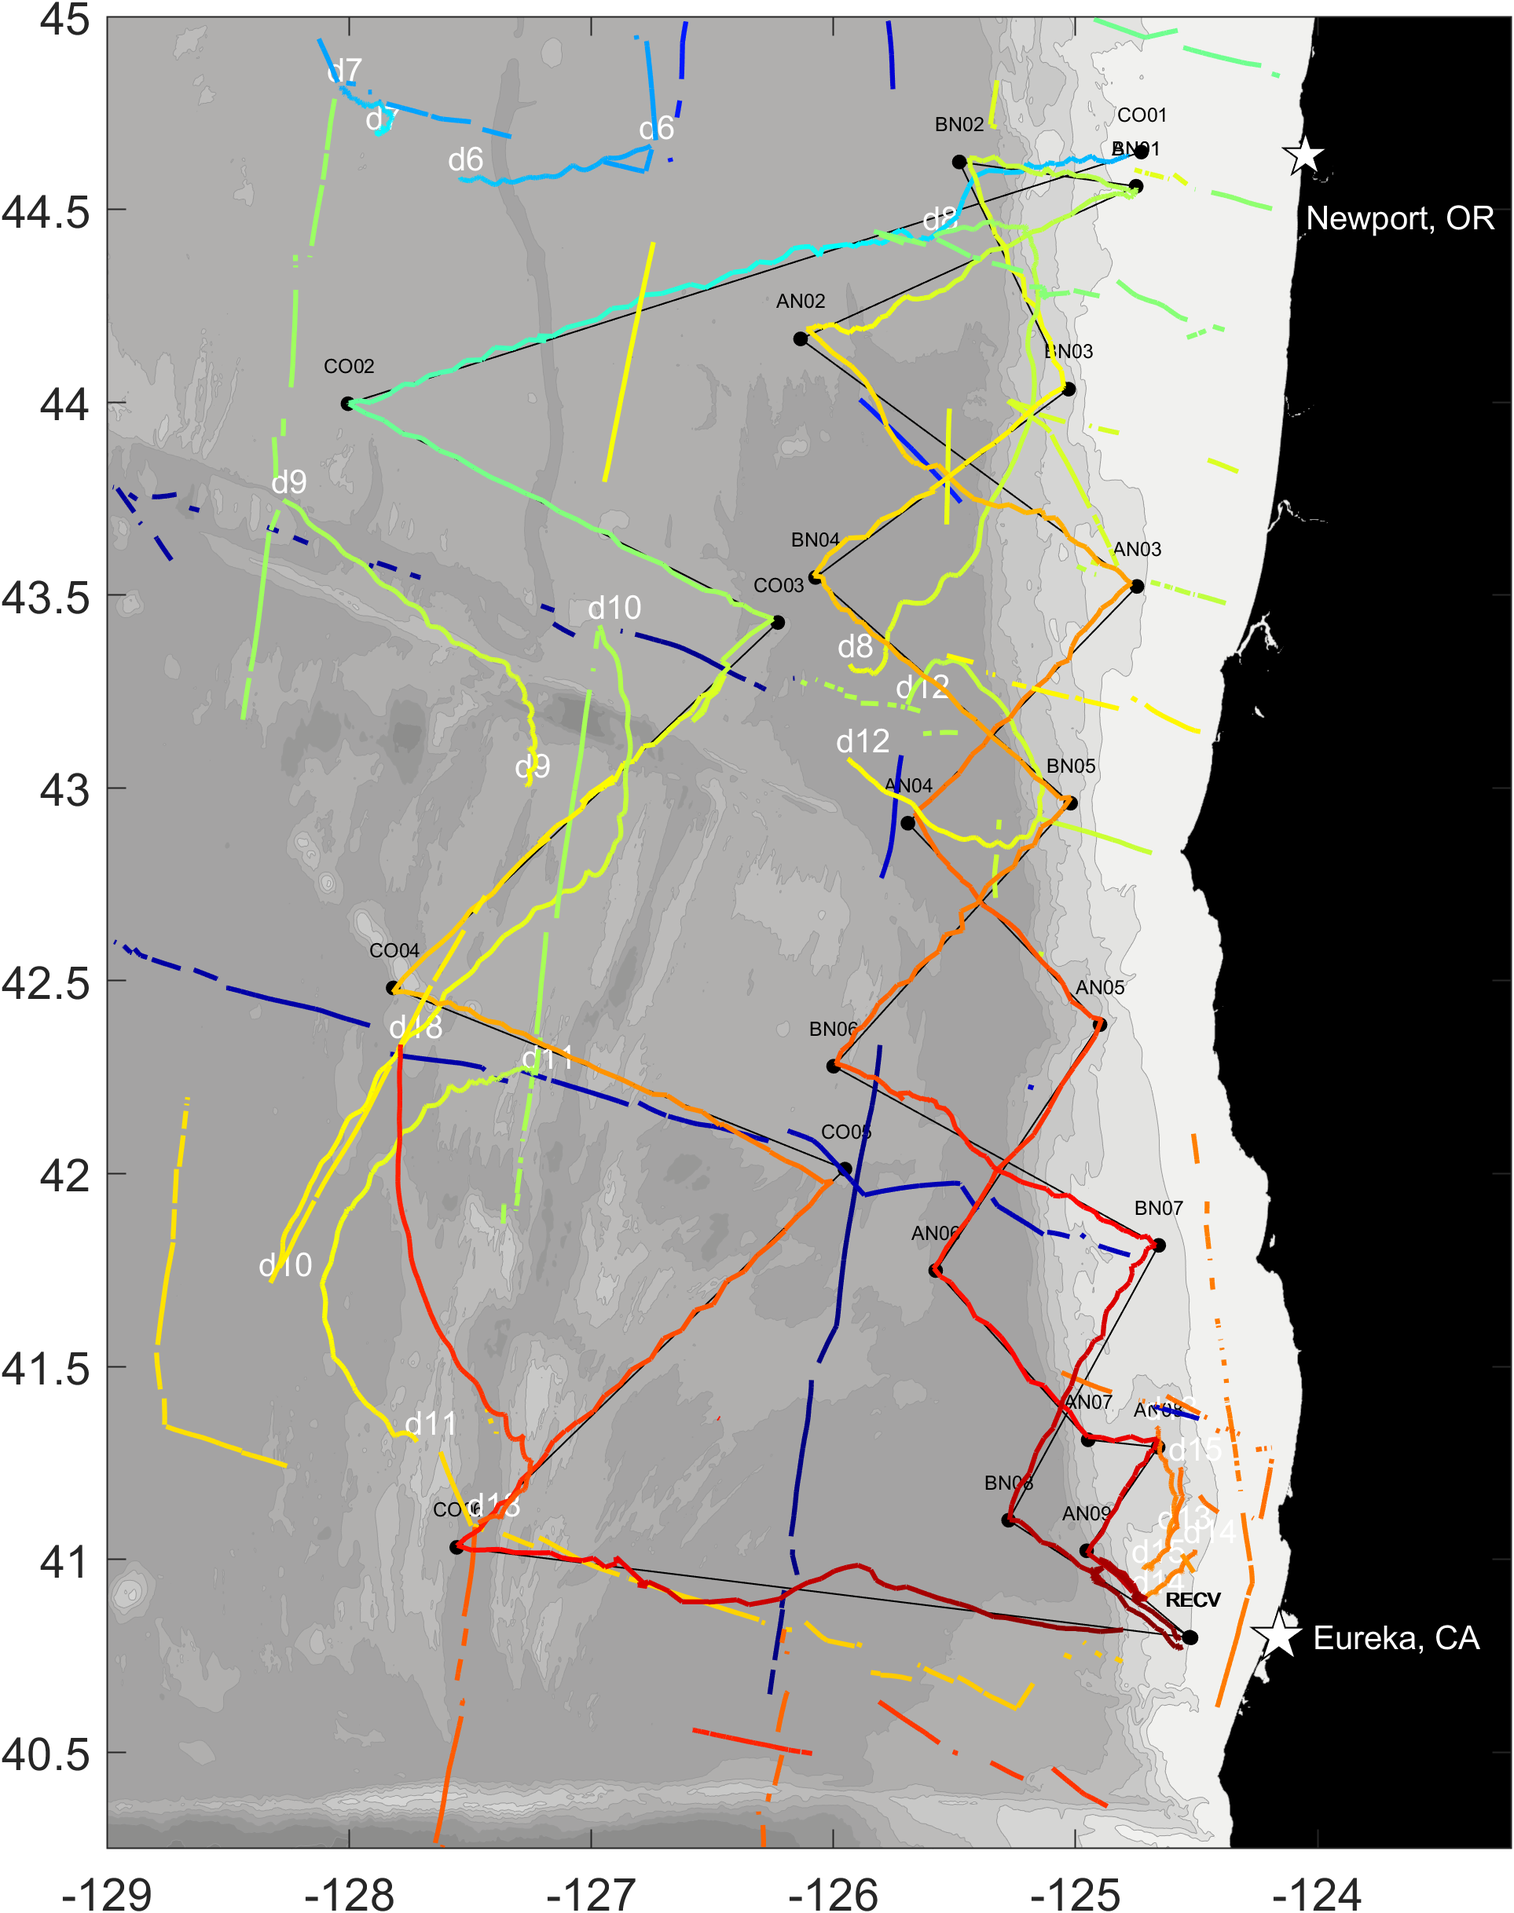
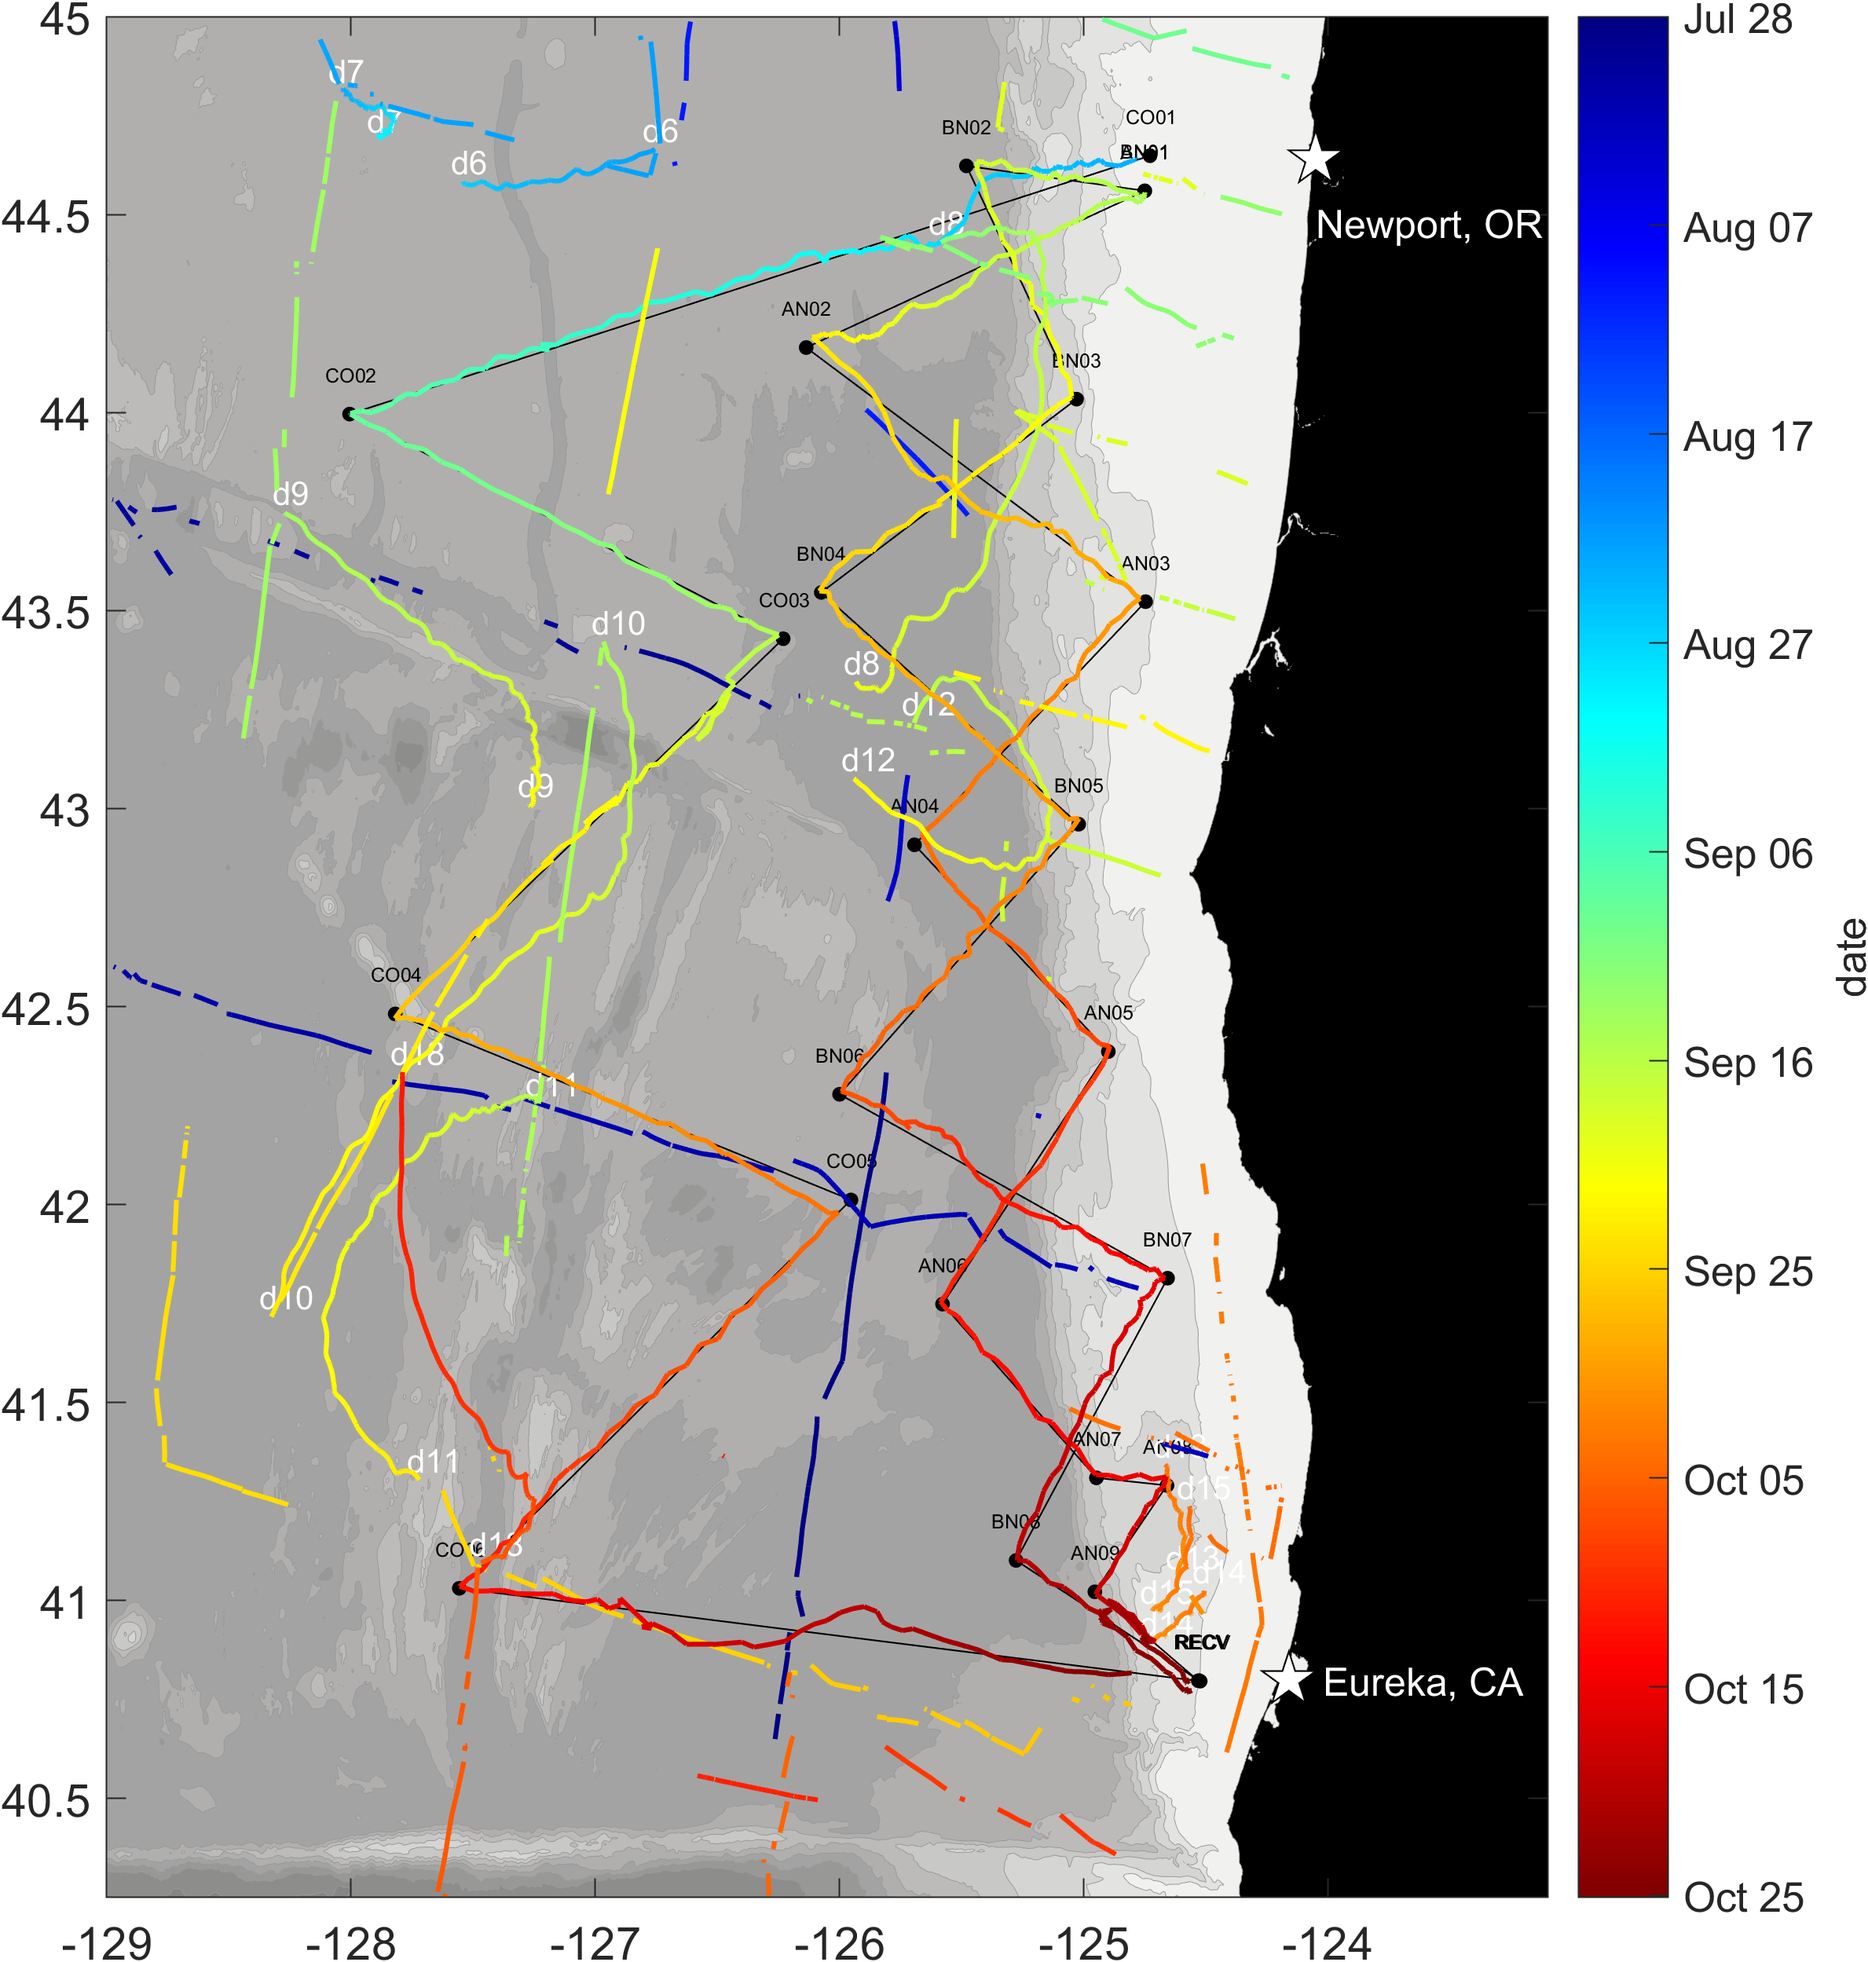
added colorbar and fixed timezone

diff --git a/MATLAB/workflow_plot_DASBRs_and_gliders_and_ship.m b/MATLAB/workflow_plot_DASBRs_and_gliders_and_ship.m
@@ -1,5 +1,5 @@
-% WORKFLOW_PLOT_DASBRS_AND_GLIDERS.M
-%	Script to make a map of the DASBRs and the gliders, colorized by time
+% WORKFLOW_PLOT_DASBRS_AND_GLIDERS_AND_SHIP.M
+%	Script to make a map of the DASBRs, gliders and ship colored by time
 %
 %	Description:
 %
@@ -34,13 +34,14 @@ cnfFile = fullfile(path_repo, 'MATLAB', 'fregosi_config_files', ...
 CONFIG = agate(cnfFile);
 
 % cannot use createBasemap because axes need to NOT be a map axis to
-% colorize the trackline by a z value (time). But pull pieces from it
+% colorize the trackline by a z value (time). But pull pieces from that
+% function to assemble fig
 
 % get axis limits
 % CONFIG.map.latLim;
 % CONFIG.map.lonLim;
 latLim = [40.25 45];
-lonLim = [-129 -123.2];
+lonLim = [-129 -123.1];
 
 % rounded limits (for bathy loading) to make sure all right sizes
 latLimWide = [40 48];
@@ -49,21 +50,21 @@ lonLimWide = [-130 -122];
 % load bathy/contour data
 CONFIG.map.bathyFile = ['C:\Users\Selene.Fregosi\Documents\GIS\etopo\' ...
     'ETOPO2022_ice_15arcsec_OR_wide.tiff'];
-	[Z, refvec] = readgeoraster(CONFIG.map.bathyFile, 'OutputType', 'double', ...
-		'CoordinateSystemType', 'geographic');
-	[Z, refvec] = geocrop(Z, refvec, latLimWide, lonLimWide);
+[Z, refvec] = readgeoraster(CONFIG.map.bathyFile, 'OutputType', 'double', ...
+    'CoordinateSystemType', 'geographic');
+[Z, refvec] = geocrop(Z, refvec, latLimWide, lonLimWide);
 % this is upsidedown for some reason. flip it
 Z = flipud(Z);
 
-	Z(Z >= 10) = 100;
-	% define axes limits (can't use refvec in non-map axes)
-	Zy = [latLimWide(1):1/60/4:latLimWide(2)];
-	Zx = [lonLimWide(1):1/60/4:lonLimWide(2)];
+Z(Z >= 10) = 100;
+% define axes limits (can't use refvec in non-map axes)
+Zy = [latLimWide(1):1/60/4:latLimWide(2)];
+Zx = [lonLimWide(1):1/60/4:lonLimWide(2)];
 
-	% add contours (modify these!)
-	levels = [-6000:500:50];
+% add contours (modify these!)
+levels = [-6000:500:50];
 
-	% plot
+% plot
 figure(21)
 clf
 
@@ -74,24 +75,24 @@ ax1 = axes;
 
 %% add glider tracks
 ax2 = axes;
-hold on; 
+hold on;
 
 % sg639
 % targetsSimple = fullfile(CONFIG.path.mission, 'targets_A_Nearshore_2024-09-30');
 targetsSimple = fullfile(path_repo, 'mission_planning', 'targets_A_Nearshore_2024-09-30');
 [targets, ~] = readTargetsFile(CONFIG, targetsSimple);
 h(1) = plot(targets.lon, targets.lat, 'Marker', 'o', 'MarkerSize', 4, ...
-	'MarkerEdgeColor', [0 0 0], 'MarkerFaceColor', [0 0 0], 'Color', [0 0 0], ...
-	'HandleVisibility', 'off');
+    'MarkerEdgeColor', [0 0 0], 'MarkerFaceColor', [0 0 0], 'Color', [0 0 0], ...
+    'HandleVisibility', 'off');
 text(targets.lon-0.1, targets.lat+0.1, targets.name, 'FontSize', 6)
 % pull properly formatted locations for pp
 load(fullfile(CONFIG.path.mission, 'flightStatus', ['diveTracking_' ...
-	CONFIG.glider '.mat']));
+    CONFIG.glider '.mat']));
 surfSimp = ppToGPSSurf(CONFIG, pp);
 writetable(surfSimp, fullfile(path_repo, 'maps', 'sg639_CalCurCEAS_Sep24_simpleSurfaceGPS.csv'))
 h(2) = color_line3(surfSimp.longitude, surfSimp.latitude, ...
-	surfSimp.time_UTC, surfSimp.time_UTC, 'LineWidth', 1.5, ...
-	'DisplayName', CONFIG.glider);
+    surfSimp.time_UTC, surfSimp.time_UTC, 'LineWidth', 1.5, ...
+    'DisplayName', CONFIG.glider);
 % colormap(hot);
 
 % sg680
@@ -102,17 +103,17 @@ CONFIG = agate(cnfFile);
 targetsSimple = fullfile(path_repo, 'mission_planning', 'targets_B_Nearshore_2024-10-14');
 [targets, ~] = readTargetsFile(CONFIG, targetsSimple);
 h(3) = plot(targets.lon, targets.lat, 'Marker', 'o', 'MarkerSize', 4, ...
-	'MarkerEdgeColor', [0 0 0], 'MarkerFaceColor', [0 0 0], 'Color', [0 0 0], ...
-	'HandleVisibility', 'off');
+    'MarkerEdgeColor', [0 0 0], 'MarkerFaceColor', [0 0 0], 'Color', [0 0 0], ...
+    'HandleVisibility', 'off');
 text(targets.lon-0.1, targets.lat+0.1, targets.name, 'FontSize', 6)
 % pull properly formatted locations for pp
 load(fullfile(CONFIG.path.mission, 'flightStatus', ['diveTracking_' ...
-	CONFIG.glider '.mat']));
+    CONFIG.glider '.mat']));
 surfSimp = ppToGPSSurf(CONFIG, pp);
 writetable(surfSimp, fullfile(path_repo, 'maps', 'sg680_CalCurCEAS_Aug24_simpleSurfaceGPS.csv'))
 h(4) = color_line3(surfSimp.longitude, surfSimp.latitude, ...
-	surfSimp.time_UTC, surfSimp.time_UTC, 'LineWidth', 1.5, ...
-	'DisplayName', CONFIG.glider);
+    surfSimp.time_UTC, surfSimp.time_UTC, 'LineWidth', 1.5, ...
+    'DisplayName', CONFIG.glider);
 % colormap(hot);
 
 % sg679
@@ -123,22 +124,26 @@ CONFIG = agate(cnfFile);
 targetsSimple = fullfile(path_repo, 'mission_planning', 'targets_C_Offshore_2024-08-15');
 [targets, ~] = readTargetsFile(CONFIG, targetsSimple);
 h(5) = plot(targets.lon, targets.lat, 'Marker', 'o', 'MarkerSize', 4, ...
-	'MarkerEdgeColor', [0 0 0], 'MarkerFaceColor', [0 0 0], 'Color', [0 0 0], ...
-	'HandleVisibility', 'off');
+    'MarkerEdgeColor', [0 0 0], 'MarkerFaceColor', [0 0 0], 'Color', [0 0 0], ...
+    'HandleVisibility', 'off');
 text(targets.lon-0.1, targets.lat+0.1, targets.name, 'FontSize', 6)
 % pull properly formatted locations for pp
 load(fullfile(CONFIG.path.mission, 'flightStatus', ['diveTracking_' ...
-	CONFIG.glider '.mat']));
+    CONFIG.glider '.mat']));
 surfSimp = ppToGPSSurf(CONFIG, pp);
 % remove the bad fixes for SG679
 surfSimp(244:245,:) = [];
 writetable(surfSimp, fullfile(path_repo, 'maps', 'sg679_CalCurCEAS_Sep24_simpleSurfaceGPS.csv'))
 h(6) = color_line3(surfSimp.longitude, surfSimp.latitude, ...
-	surfSimp.time_UTC, surfSimp.time_UTC, 'LineWidth', 1.5, ...
-	'DisplayName', CONFIG.glider);
+    surfSimp.time_UTC, surfSimp.time_UTC, 'LineWidth', 1.5, ...
+    'DisplayName', CONFIG.glider);
 % colormap(hot);
 
-hCount = 6; % for keeping track of h objects 
+% get min/max dates from SG679 (out first)
+minDatenum = min(surfSimp.time_UTC);
+maxDatenum = max(surfSimp.time_UTC);
+
+hCount = 6; % for keeping track of h objects
 %% add DASBR tracks
 % dasbrs = kml2struct(fullfile(path_repo, 'DASBRs', ...
 % 	'CalCurCEAS_2024_DASBR_and_effort_thru_Sep26.kml'));
@@ -151,46 +156,73 @@ for f = [3, 5:15, 18]
     hCount = hCount + 1;
     dasbr = readtable(fullfile(dasbrList(f).folder, dasbrList(f).name));
     dasbr.datenum = datenum(dasbr.UTC);
-	% h(6+f) = plot(dasbr.Longitude, dasbr.Latitude, 'Color', 'white', ...
-	% 	'LineWidth', 1.5, 'DisplayName', 'dasbr');
+    % h(6+f) = plot(dasbr.Longitude, dasbr.Latitude, 'Color', 'white', ...
+    % 	'LineWidth', 1.5, 'DisplayName', 'dasbr');
     h(hCount) = color_line3(dasbr.Longitude, dasbr.Latitude, ...
-	dasbr.datenum, dasbr.datenum, 'LineWidth', 1.5, ...
-	'DisplayName', ['dasbr' num2str(f)]);
+        dasbr.datenum, dasbr.datenum, 'LineWidth', 1.5, ...
+        'DisplayName', ['dasbr' num2str(f)]);
 
     text(dasbr.Longitude(1)-0.05, dasbr.Latitude(1)+0.05, ['d' num2str(f)], ...
         'FontSize', 10, 'Color', 'white')
     text(dasbr.Longitude(end)-0.05, dasbr.Latitude(end)+0.05, ['d' num2str(f)], ...
         'FontSize', 10, 'Color', 'white')
-	% dasbrs(f).Number = f;
-	% h(6+f) = plot(dasbrs(f).Lon, dasbrs(f).Lat, 'Color', 'white', ...
-	% 	'LineWidth', 1.5, 'DisplayName', dasbrs(f).Name);
+    % dasbrs(f).Number = f;
+    % h(6+f) = plot(dasbrs(f).Lon, dasbrs(f).Lat, 'Color', 'white', ...
+    % 	'LineWidth', 1.5, 'DisplayName', dasbrs(f).Name);
+
+    % check date min/max against each dasbr
+    if min(dasbr.datenum) < minDatenum
+        minDatenum = min(dasbr.datenum);
+    end
+    if max(dasbr.datenum) > maxDatenum
+        maxDatenum = max(dasbr.datenum);
+    end
 end
 
 %% add the ship
- ship = readtable(fullfile(path_repo, 'secret', 'ship_effort.csv'));
- ship.datenum = datenum(ship.DateTime);
- 
- % trim to just the area we want (otherwise color axis will be off)
+ship = readtable(fullfile(path_repo, 'secret', 'ship_effort.csv'));
+ship.datenum = datenum(ship.DateTime_UTC);
+
+% trim to just the area we want (otherwise color axis will be off)
 trimIdx = find(ship.Lat >= latLim(1) & ship.Lat <= latLim(2) & ...
     ship.Lon >= lonLim(1) & ship.Lon <= lonLim(2));
 % trimIdx = unique([latIdx; lonIdx]);
 shipTrim = ship(trimIdx,:);
 
- % loop through each segment separately so they aren't connected
- for f = 1:max(shipTrim.SegID)
-     shipSeg = shipTrim(shipTrim.SegID == f,:);
- hCount = hCount + 1;
- h(hCount) = color_line3(shipSeg.Lon, shipSeg.Lat, shipSeg.datenum, ...
-     shipSeg.datenum, 'LineWidth', 1.5, 'DisplayName', 'ship');
- end
+% % loop through each segment separately so they aren't connected
+% for f = 1:max(shipTrim.SegID)
+%     shipSeg = shipTrim(shipTrim.SegID == f,:);
+%     hCount = hCount + 1;
+%     % first plot as white slightly thicker
+%     line(shipSeg.Lon, shipSeg.Lat, 'Color', 'black', 'LineWidth', 2);
+%     % then plot colorized
+%     h(hCount) = color_line3(shipSeg.Lon, shipSeg.Lat, shipSeg.datenum, ...
+%         shipSeg.datenum, 'LineWidth', 1, 'DisplayName', 'ship');
+% end
+
+% loop through each segment separately so they aren't connected
+for f = 1:max(shipTrim.SegID)
+    shipSeg = shipTrim(shipTrim.SegID == f,:);
+    hCount = hCount + 1;
+    h(hCount) = color_line3(shipSeg.Lon, shipSeg.Lat, shipSeg.datenum, ...
+        shipSeg.datenum, 'LineWidth', 1.5, 'DisplayName', 'ship');
+end
+
+% check min/max dates
+if min(shipTrim.datenum) < minDatenum
+    minDatenum = min(shipTrim.datenum);
+end
+if max(shipTrim.datenum) > maxDatenum
+    maxDatenum = max(shipTrim.datenum);
+end
 
 %%  add some other labels
 % add newport label
-scatter(-124.05, 44.64, 200, 'white', 'p', 'filled', 'MarkerEdgeColor', 'black');
-text(-124.05, 44.48, 'Newport, OR', 'FontSize', 10, 'Color', 'white');
+scatter(-124.05, 44.64, 300, 'white', 'p', 'filled', 'MarkerEdgeColor', 'black');
+text(-124.05, 44.48, 'Newport, OR', 'FontSize', 12, 'Color', 'white');
 % add Eureka label
 scatter(-124.16, 40.8, 300, 'white', 'p', 'filled', 'MarkerEdgeColor', 'black');
-text(-124.02, 40.8, 'Eureka, CA', 'FontSize', 10, 'Color', 'white');
+text(-124.02, 40.8, 'Eureka, CA', 'FontSize', 12, 'Color', 'white');
 
 %% link the axes and turn off top layer
 linkaxes([ax1 ax2])
@@ -209,19 +241,32 @@ colormap(ax2,'jet')
 
 xlim(lonLim)
 ylim(latLim)
-% set the axis ratio. 
-dLon = 111*cosd(40); 
+% set the axis ratio.
+dLon = 111*cosd(40);
 ratio = dLon/111;
 pbaspect(ax1, [ratio 1 1])
 pbaspect(ax2, [ratio 1 1])
-% want to add colorbar but it gets written on top of the bathy map...
-% and labels are bad
-% colorbar(ax2, 'south')
+
+% add colorbar
+% Position has to be manually set so first set size then cb posit
+set(gcf, 'Position', [40 50 920 940]);
+cb2 = colorbar(ax2, 'Position', [.85 .11 .04 .815]);
+% set up ticks/labels to be readable
+colTicks = linspace(minDatenum, maxDatenum, 10); % 10 ticks
+colTickLabels = datestr(colTicks, 'mmm dd');
+cb2.Ticks = colTicks;
+cb2.TickLabels = colTickLabels;
+cb2.Label.String = 'date';
+cb2.Direction = 'reverse';
+% cb2.Label.FontSize = 14;
+% cb2.FontSize = 14;
 
 %% Save all glider map
 
+% set position/size
+set(gcf, 'Position', [40 50 920 940]);
 exportgraphics(gcf, fullfile(path_repo, 'maps', 'DASBRs_and_gliders_and_ship_coloredByTime.png'), ...
-	'Resolution', 300);
+    'Resolution', 300);
 
 
 
